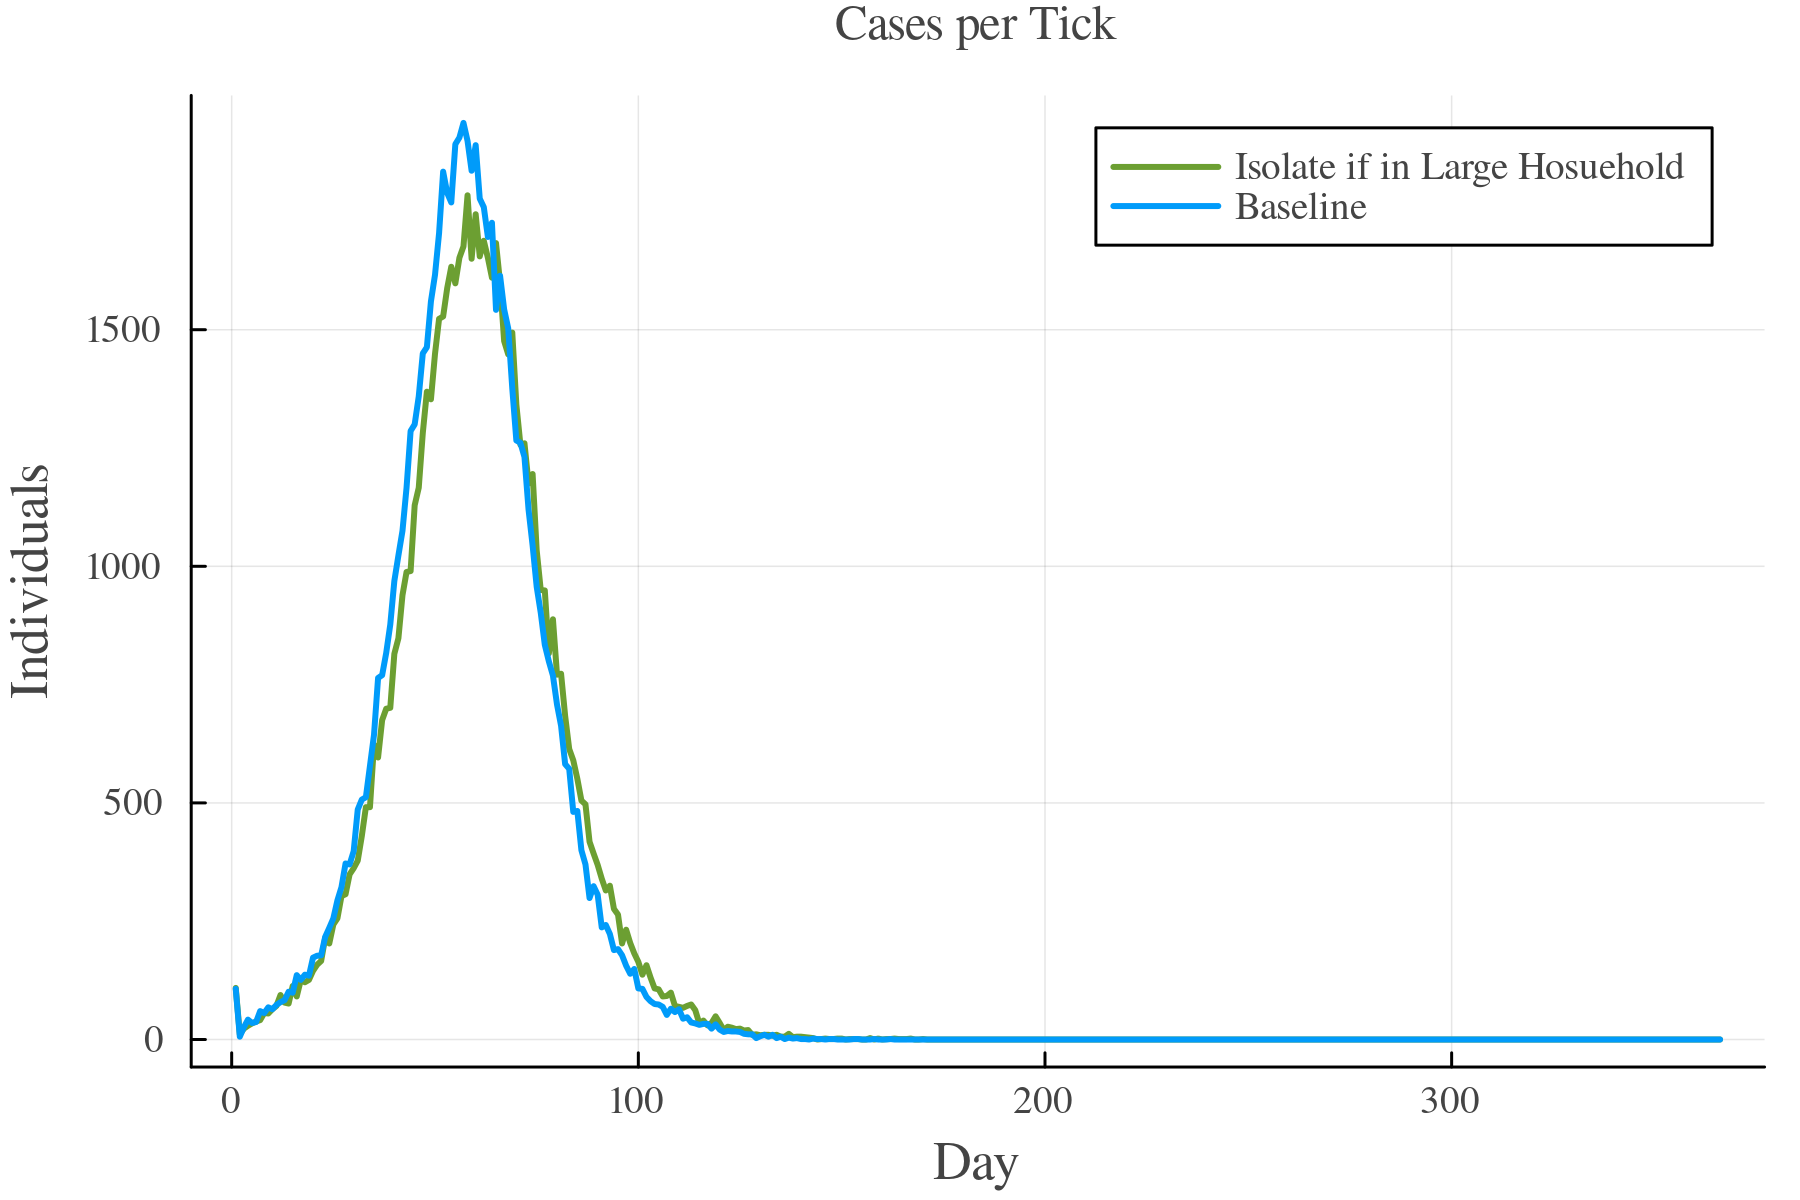
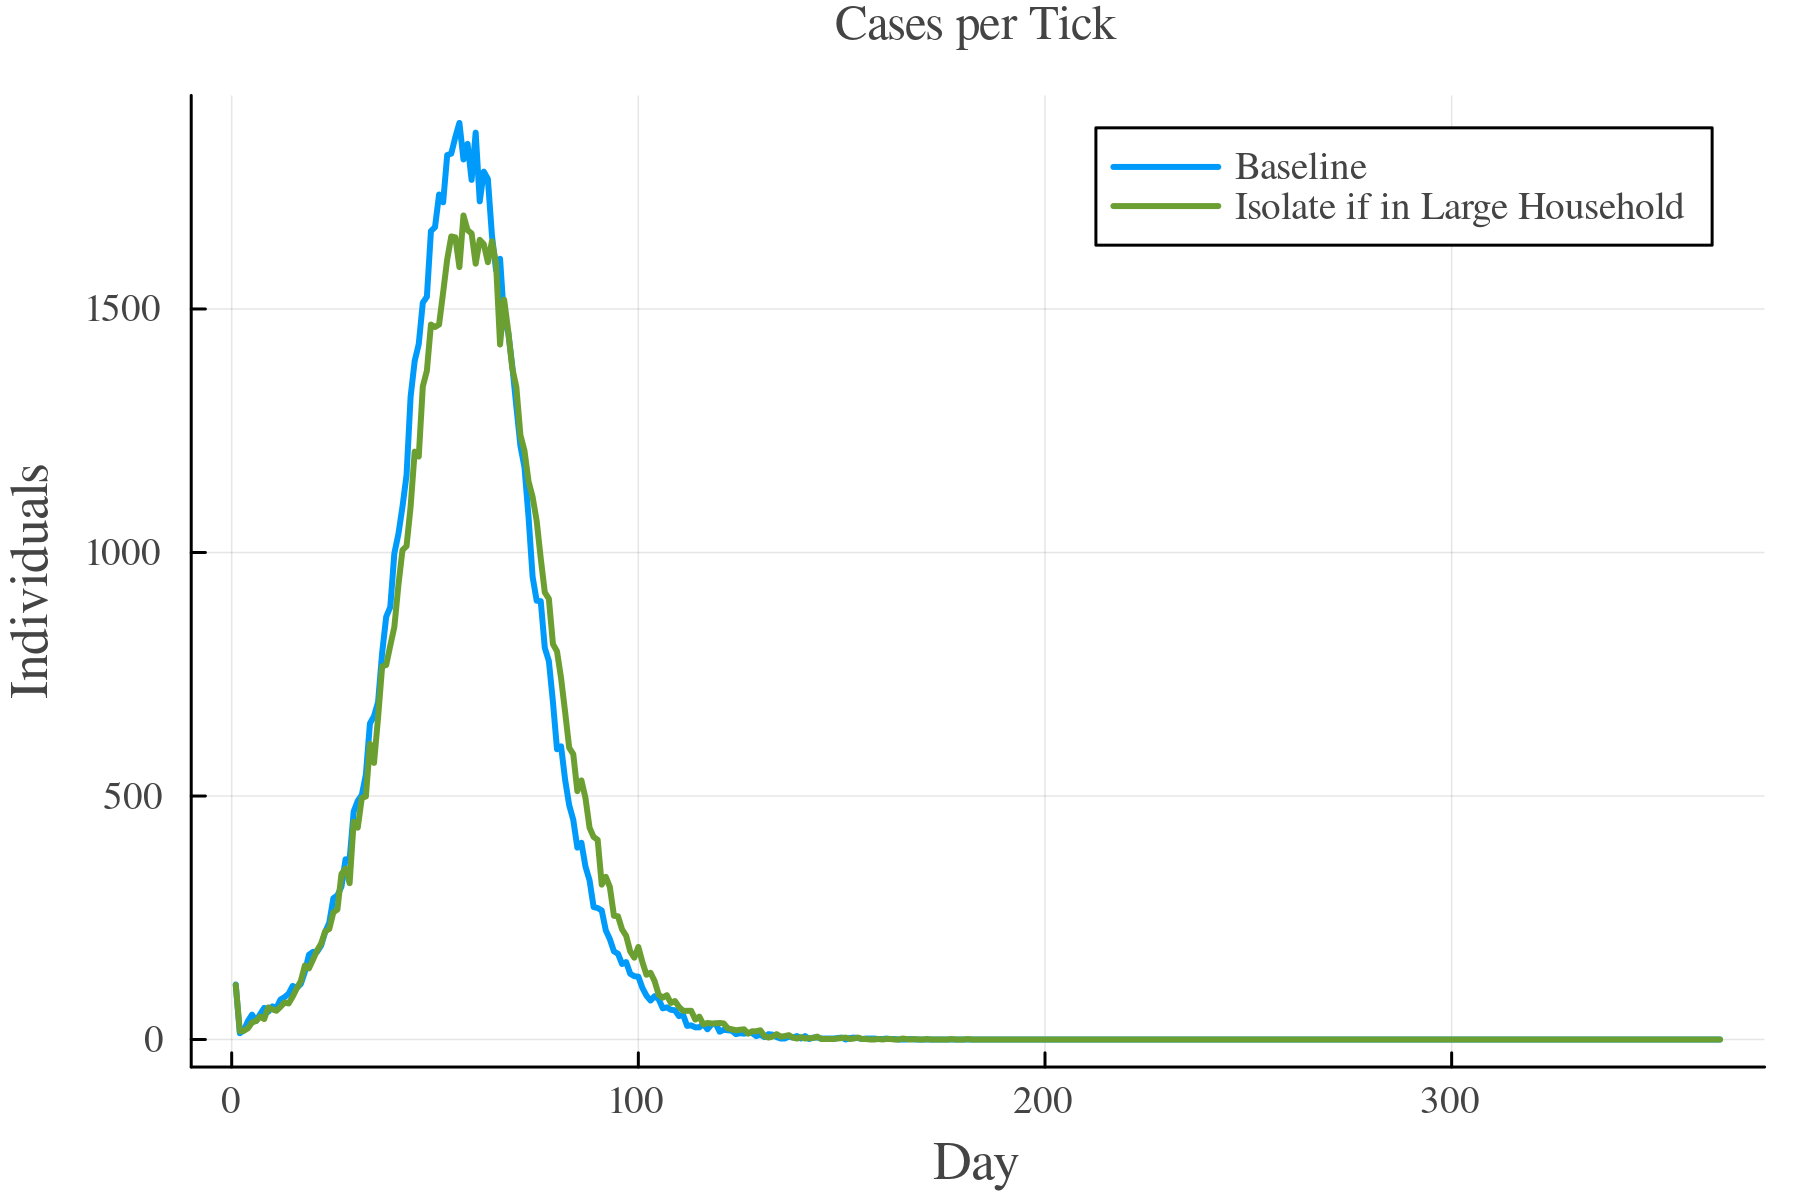
added delayed measures tutorial

diff --git a/docs/src/tut_npi.md b/docs/src/tut_npi.md
@@ -61,7 +61,7 @@ Using the `:CumulativeIsolations` plot, you can inspect the number of people who
 The execution of measures and strategies can be conditioned.
 Here's the self-isolation scenario again but it shall only apply to students.
 School kids that are symptomatic shall be isolated for 14 days.
-We can achieve this by passing the optional `condition`-argument to the `add_measure!()` function.
+We can achieve this by passing the optional `condition`-argument to the `add_measure!(...)` function.
 The condition itself must be a one-argument predicate function (a function that returns `true` or `false`) that is being evaluated once the measure is being triggered.
 In the example below, we pass the `is_student(individual)` function that returns `true` if an individual is a student.
 
@@ -159,7 +159,7 @@ baseline = Simulation(label = "Baseline")
 
 # simulation with 14-day isolation (at home)
 # upon experiencing symptoms if you are a in a 5+ household
-scenario = Simulation(label = "Isolate if in Large Hosuehold")
+scenario = Simulation(label = "Isolate if in Large Household")
 self_isolation = IStrategy("Self Isolation", scenario)
 add_measure!(self_isolation, SelfIsolation(14),
     condition = i -> size(household(i, scenario)) > 5)
@@ -327,7 +327,6 @@ rd_s = ResultData(scenario)
 gemsplot([rd_b, rd_s], type = (:TickCases, :TickTests, :ActiveDarkFigure), size = (800, 800))
 ```
 
-
 **Plot**
 
 ```@raw html
@@ -341,6 +340,72 @@ Of course, in reality this not very realistic.
 Therefore, GEMS offers options to delay measures (e.g., only getting a test one day after symptom onset).
 Please look up the respective tutorial.
 
+
+## Delayed Measures (Testing)
+
+The timing of intervention strategies is crucial in most applications.
+GEMS has two mechanisms to define the execution time of a measure.
+Both can be passed as optional arguments to the `add_measure!(...)` function.
+The `offset` defines how many ticks should be between the trigger event of a measure's parent strategy and the execution of the respective measure.
+It's default value is `0`.
+The `delay` takes a one-argument function that is being evaluated at runtime and needs to return an integer value.
+These functions work very similar to the `condition`-function.
+Please look up the previous example on conditioned measures.
+The results of this delay-function is added on top of the offset.
+It can be used to delay the execution of measures, e.g., based on  an individual's personal characteristics.
+In the following scenarios, we compare two scenarios: (1) where individuals get a test immediately and go into isolation if the results come back positive (as in the previous tutorial) and (2) where individuals below the age of 50 get the test immediately an 50+ individuals get them one day after.
+
+**Scenario Summary**:
+  - Upon experiencing symptoms, individuals are being tested
+  - In scenario 1, tests are being applied immediately. In scenario 2, tests are being applied with a one-day delay for people above the age of 50
+  - The test has a 100% sensitivity and 100% specificity
+  - Test results are available immediately
+  - If the test result is positive, the individual goes into isolation for 14 days
+
+```julia
+using GEMS, Plots
+
+# SCENARIO 1: No testing delay
+scenario_1 = Simulation(label = "No Delay")
+PCR_Test_1 = TestType("PCR Test", pathogen(scenario_1), scenario_1)
+self_isolation_1 = IStrategy("Self Isolation", scenario_1)
+add_measure!(self_isolation_1, SelfIsolation(14))
+testing_1 = IStrategy("Testing", scenario_1)
+add_measure!(testing_1, Test("Test", PCR_Test_1, positive_followup = self_isolation_1))
+trigger_1 = SymptomTrigger(testing_1)
+add_symptom_trigger!(scenario_1, trigger_1)
+
+# SCENARIO 2: 1-day delay for 50+ people
+scenario_2 = Simulation(label = "1-Day delay for 50+")
+PCR_Test_2 = TestType("PCR Test", pathogen(scenario_2), scenario_2)
+self_isolation_2 = IStrategy("Self Isolation", scenario_2)
+add_measure!(self_isolation_2, SelfIsolation(14))
+testing_2 = IStrategy("Testing", scenario_2)
+add_measure!(testing_2, Test("Test", PCR_Test_2, positive_followup = self_isolation_2),
+    delay = i -> age(i) >= 50 ? 1 : 0) # delay function
+trigger_2 = SymptomTrigger(testing_2)
+add_symptom_trigger!(scenario_2, trigger_2)
+
+# run everything
+b = Batch(scenario_1, scenario_2)
+run!(b)
+rd = ResultData(b)
+
+plot(
+    gemsplot(rd, type = :TickCases),
+    gemsplot(rd, type = :TimeToDetection, ylims = (0, 6)),
+    layout = (2, 1),
+    size = (800, 800)
+)
+```
+
+**Plot**
+
+```@raw html
+<p align="center">
+    <img src="../assets/tutorials/tut_interventions_delayed-testing.png" width="80%"/>
+</p>
+``` 
 
 ## Varying Test Sensitivity (or Specificity)
 
@@ -542,14 +607,6 @@ Tutorial coming soon ...
 Tutorial coming soon ...
 
 ## Setting Closure
-
-Tutorial coming soon ...
-
-## Delayed Interventions
-
-Tutorial coming soon ...
-
-## Conditional Interventions
 
 Tutorial coming soon ...
 
